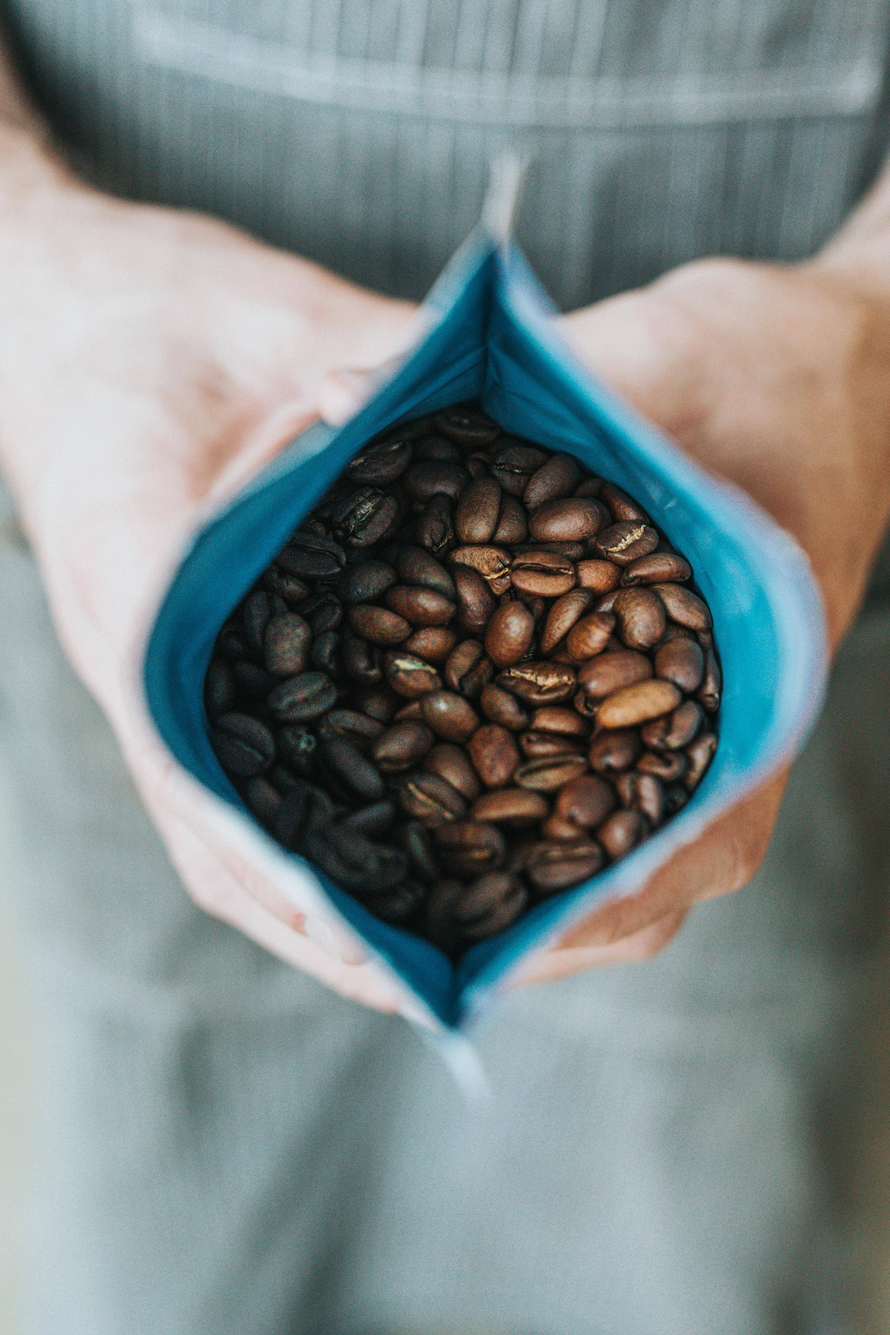
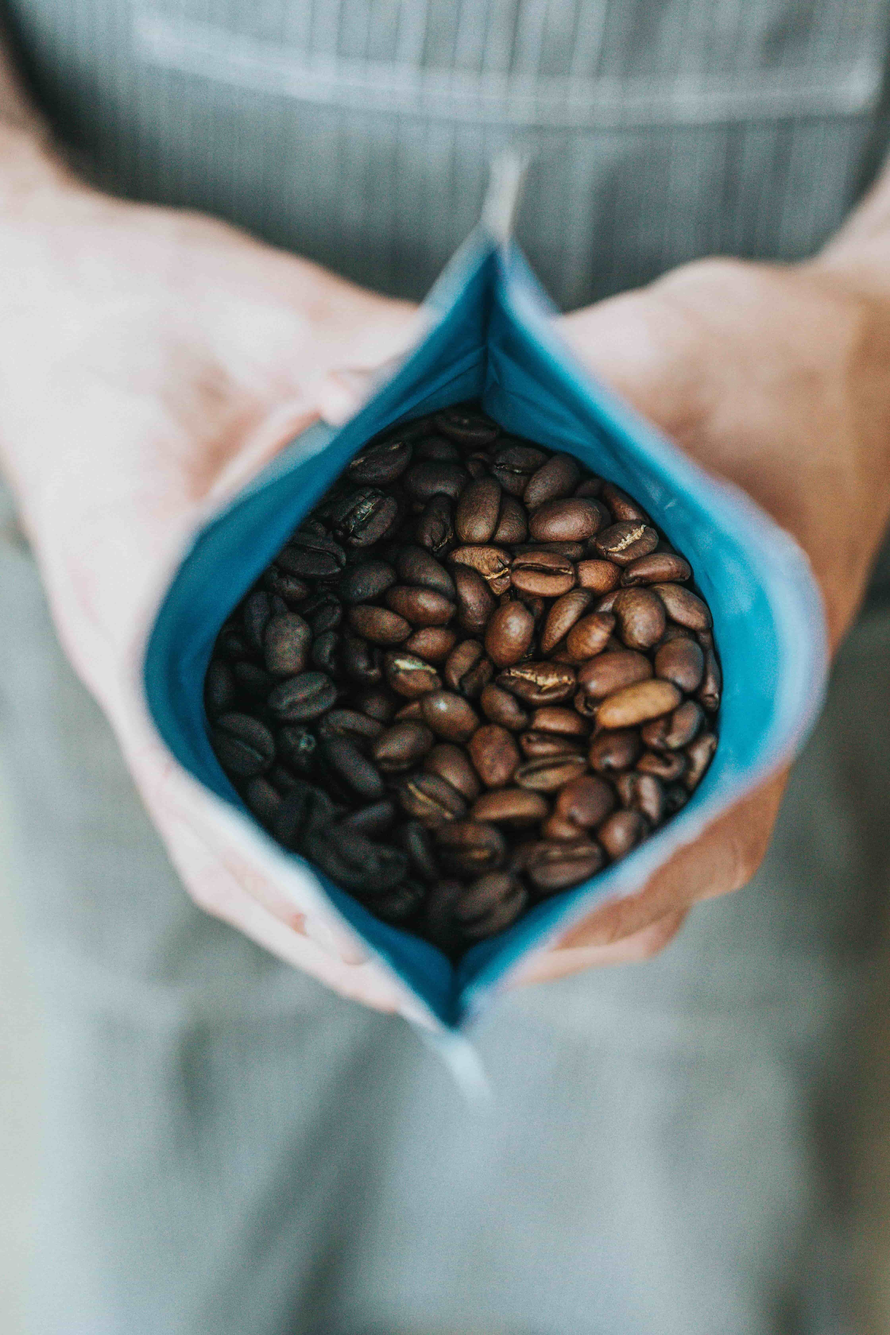
reduced image sizes... added collage

Changed region(s): [[0.3125, 0.4688, 0.3438, 0.5]]

diff --git a/client/src/components/Collage/index.js b/client/src/components/Collage/index.js
@@ -1,0 +1,53 @@
+import { Container, Nav, Button, Image, Row, Col } from "react-bootstrap";
+import Navbar from "react-bootstrap/Navbar";
+import React, { Component } from "react";
+import "./style.css";
+import col1 from "../../media/col1.jpg"
+import col2 from "../../media/col2.jpg"
+import col3 from "../../media/col3.jpg"
+import col4 from "../../media/col4.jpg"
+import dots from "../../media/dots.png";
+import { FontAwesomeIcon } from "@fortawesome/react-fontawesome";
+import { faQuoteLeft, faGlassMartini } from "@fortawesome/free-solid-svg-icons";
+
+export default class Collage extends Component {
+  constructor(props) {
+    super(props);
+
+    this.listener = null;
+    this.state = {
+      status: "top",
+    };
+  }
+
+//   componentDidMount() {
+
+
+//   }
+
+
+
+  render() {
+
+    const imgs = [
+        {src: col1},
+        {src: col2},
+        {src: col3},
+        {src: col4}
+    ]
+
+    var imgArray = imgs.map((item, i) => (
+        <div className="collage-img" style={{backgroundImage:`url(${item.src})`}}></div>
+    ));
+
+
+    return (
+      <div className="collage-component">
+               <img className="hr-comp-dots" src={dots}></img>
+        <div className="collage-wrapper">
+            {imgArray}
+        </div>
+      </div>
+    );
+  }
+}

diff --git a/client/src/components/Collage/style.css b/client/src/components/Collage/style.css
@@ -1,0 +1,56 @@
+.collage-component {
+    position: relative;
+    min-height: 100vh;
+    max-height: 100%;
+    display: flex;
+    align-items: center;
+    justify-content: center;
+}
+
+.collage-wrapper{
+    display:flex;
+    flex-wrap:wrap;
+    justify-content: center;
+}
+
+.collage-img {
+    flex: 0 0 35%;
+    width:290px;
+    height:275px;
+    background-size: cover;
+    background-position: center;
+    margin:5px;
+   cursor: pointer;
+}
+
+.collage-img:nth-child(2){
+    background-position:top;
+}
+.collage-img:nth-child(3){
+    background-position-y:15%;
+}
+.collage-img:nth-child(4){
+    background-position-y:65%;
+}
+
+.collage-img:hover{
+    -webkit-filter: grayscale(100%); /* Safari 6.0 - 9.0 */
+    filter: grayscale(100%);
+    transition:.6s;
+}
+
+@media(max-width:677px){
+    .collage-img {
+        flex: 1 0 35%; 
+    }
+    .collage-img:nth-child(1){
+        background-position-x:65%;
+    }
+}
+
+@media(max-width:321px) {
+    .collage-component{
+        min-height: 115vh;
+        max-height: 115%;
+    }
+}

diff --git a/client/src/pages/Homepage/index.js b/client/src/pages/Homepage/index.js
@@ -6,6 +6,7 @@ import Brand from "../../components/Brand";
 import MenuHero from "../../components/MenuHero";
 import HoursDirections from "../../components/HoursDirections";
 import HandRoasted from "../../components/HandRoasted";
+import Collage from "../../components/Collage";
 import HomeHero from "../../components/HomeHero/index";
 import Footer from "../../components/Footer/index.js";
 import "./style.css";
@@ -78,6 +79,7 @@ export default class Homepage extends Component {
               {/* </ScrollIntoView> */}
             </a>
             <HandRoasted></HandRoasted>
+            <Collage></Collage>
             <Footer showBrand={this.showBrand}></Footer>
           </div>
         )}
